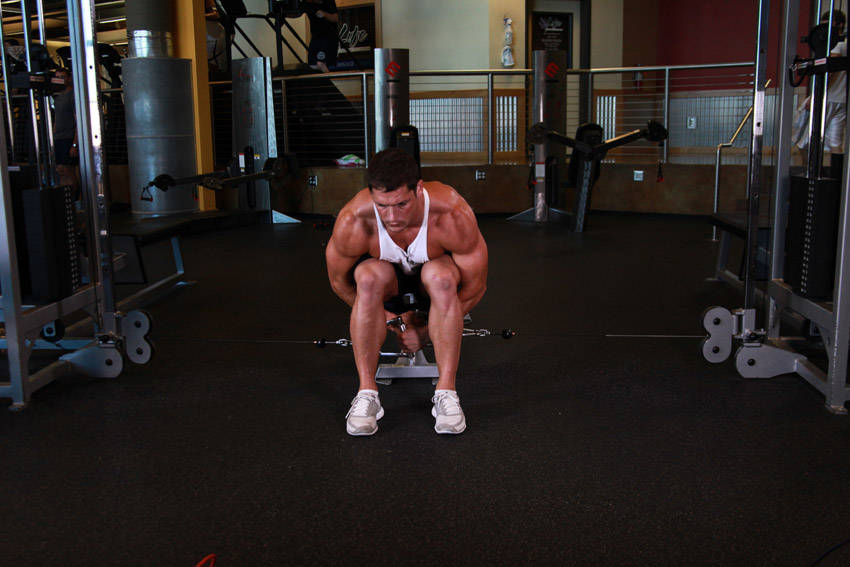
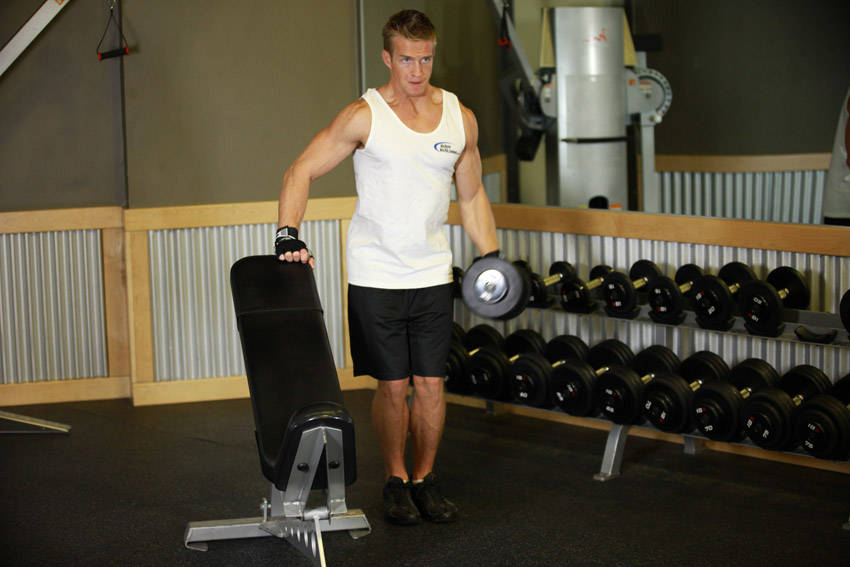
Elevación lateral en polea: foto de pie y a un brazo

diff --git a/ejercicios.js b/ejercicios.js
@@ -139,7 +139,7 @@ const LIB = [
     'Con el codo un poco doblado, sube el brazo hacia el lado hasta la altura del hombro.',
     'Aguanta un instante arriba.',
     'Baja despacio y repite. Luego cambia de lado.'],
-    'La polea mantiene la tensión todo el recorrido, también abajo.'),
+    'La polea mantiene la tensión todo el recorrido, también abajo. (La foto muestra el mismo movimiento con mancuerna.)'),
   E('Elevaciones frontales', 'Hombros', ['Hombros (parte delantera)'], ['Pecho (parte alta)'], [
     'De pie con una mancuerna en cada mano delante de los muslos.',
     'Sube un brazo (o los dos) hacia delante, casi recto, hasta la altura de los ojos.',

diff --git a/index.html b/index.html
@@ -111,7 +111,7 @@ table{width:100%;border-collapse:collapse;font-size:15px}td{padding:4px 0}td:las
 <div id="reorder" hidden></div>
 <script src="ejercicios.js"></script>
 <script>
-const VERSION = 7; // súbelo junto con C en sw.js
+const VERSION = 8; // súbelo junto con C en sw.js
 const MUSCLES =['Pecho','Espalda','Hombros','Brazos','Piernas','Core'];
 const RESTS = Array.from({ length: 41 }, (_, i) => i * 15); // 0 a 10 min, de 15 en 15 s
 const RING = 119.38; // perímetro del anillo de descanso (2π·19)

diff --git a/sw.js b/sw.js
@@ -1,6 +1,6 @@
 // La app (HTML/JS) se pide siempre a internet y solo se usa la copia guardada sin conexión;
 // las fotos de ejercicios se sirven desde la copia (no cambian). Cambia C en cada versión.
-const C = 'forja-v7';
+const C = 'forja-v8';
 const SHELL = ['./', 'index.html', 'ejercicios.js', 'manifest.json', 'icon.svg'];
 self.addEventListener('install', e => {
   e.waitUntil(caches.open(C).then(c => c.addAll(SHELL.map(u => new Request(u, { cache: 'reload' })))));
